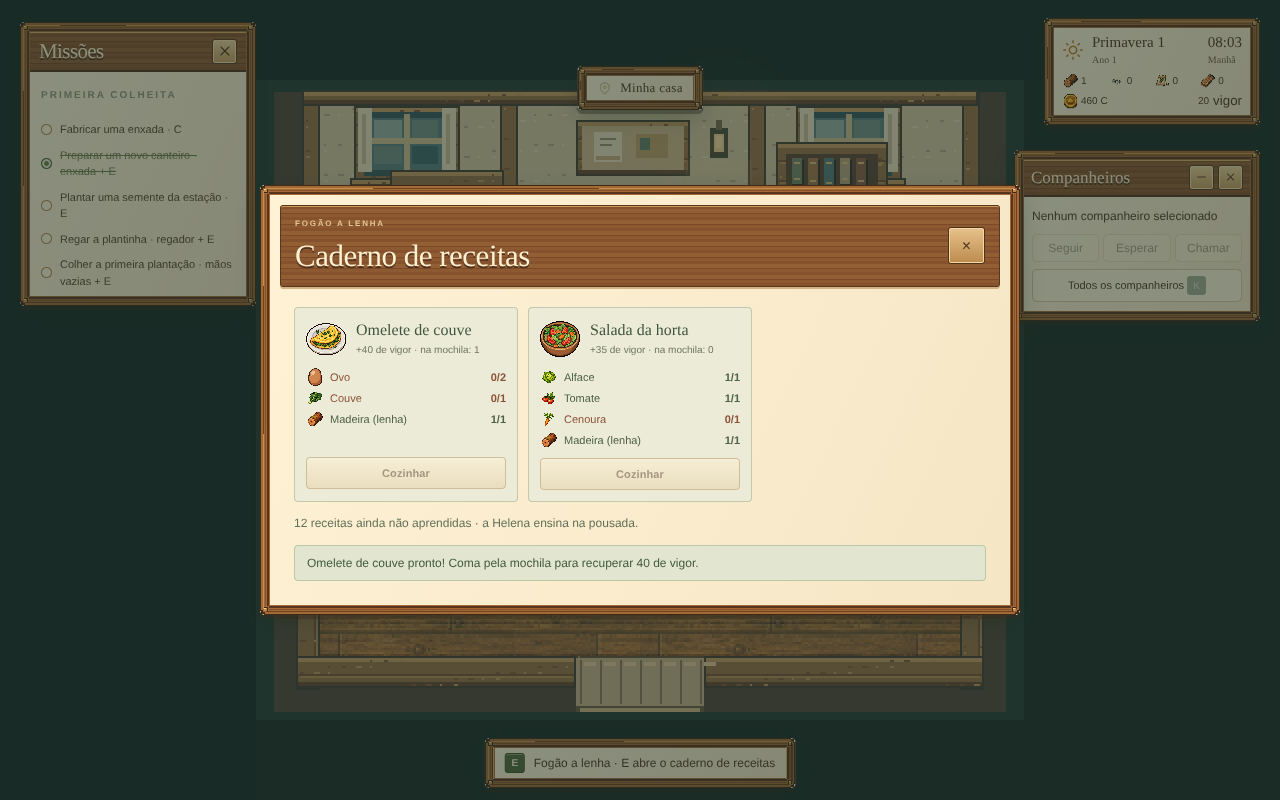
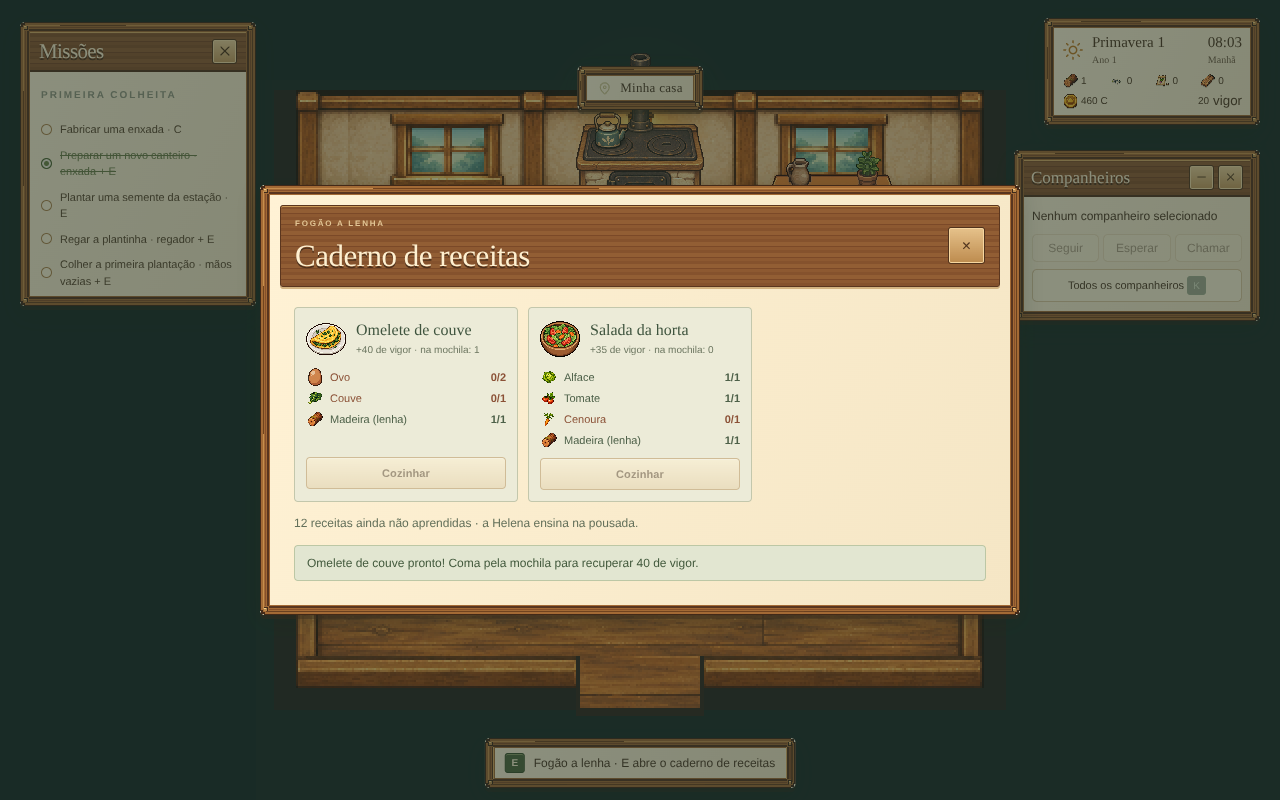
Reorganiza a casa: cama e estante centradas nas janelas, fogão no centro da parede
Pedidos do Junior: fogão centralizado e colado na parede (2x1, desenhado
no rodapé), cama centrada sob a janela esquerda e subida até a parede,
estante baixa nova (SpriteCook) centrada sob a janela direita, mesa com
duas cadeiras, e regador e sementes lado a lado no canto inferior
direito. As janelas foram deslocadas na arte para ficarem sobre a grade.
Casas na arrumação inicial antiga recebem a nova se o save continuar
válido; casas reorganizadas não mudam.

Claude-Session: https://claude.ai/code/session_01VpVxgMQDGaCXuwQcLEJaM9

Changed region(s): [[0.2188, 0.0938, 0.7812, 0.25], [0.2188, 0.75, 0.7812, 0.9062]]

diff --git a/tests/home-layout-migration.test.ts b/tests/home-layout-migration.test.ts
@@ -1,39 +1,64 @@
 import { describe, it, expect } from 'vitest';
 import { createCharacterProfile } from '../src/data/characters';
-import { createDefaultHome } from '../src/systems/home';
+import { createDefaultHome, legacyDefaultHome, untouchedLegacyLayout, validateHome, Home } from '../src/systems/home';
 import { createNewSave, migrateSave, validateSave } from '../src/systems/save';
 
-function oldRoom() {
+/** Save com a casa na arrumação inicial publicada até a preview.34. */
+function oldRoom(variant: 'p34' | 'stove' | 'codex' = 'p34') {
   const save = createNewSave(createCharacterProfile('Casa'));
-  save.home = createDefaultHome();
-  Object.assign(save.home.furniture.find(p => p.kind === 'shelf')!, { x: 8, y: 2 });
+  save.home = legacyDefaultHome();
+  if (variant !== 'p34') save.home.furniture.push({ id: 'home-woodStove-7', kind: 'woodStove', x: 4, y: 2 });
+  if (variant === 'codex') Object.assign(save.home.furniture.find(p => p.kind === 'shelf')!, { x: 9, y: 7 });
   return save;
 }
 
-describe('estante fora da janela', () => {
-  it('atualiza a posição antiga sem modificar a entrada, peças ou save original', () => {
-    const old = oldRoom(), before = structuredClone(old);
-    const updated = migrateSave(old)!;
+describe('arrumação inicial da casa', () => {
+  it('a nova arrumação é válida: cama sob a janela, estante baixa, fogão na parede e mesa com duas cadeiras', () => {
+    const h = createDefaultHome();
+    expect(validateHome(h)).toBe(true);
+    expect(h.furniture.find(p => p.kind === 'woodStove')).toMatchObject({ x: 5, y: 2 });
+    expect(h.furniture.filter(p => p.kind === 'chair')).toHaveLength(2);
+    // O fogão ocupa só a fileira encostada na parede.
+    expect(new Home(h).isBlocked(5, 3)).toBe(false);
+    expect(new Home(h).isBlocked(5, 2)).toBe(true);
+  });
+  it('reconhece só a arrumação antiga intocada, com ou sem os ajustes da preview.35', () => {
+    expect(untouchedLegacyLayout(legacyDefaultHome())).toBe(true);
+    expect(untouchedLegacyLayout(oldRoom('stove').home!)).toBe(true);
+    expect(untouchedLegacyLayout(oldRoom('codex').home!)).toBe(true);
+    expect(untouchedLegacyLayout(createDefaultHome())).toBe(false);
+    const moved = legacyDefaultHome(); moved.furniture[5].x = 3;
+    expect(untouchedLegacyLayout(moved)).toBe(false);
+  });
+});
+
+describe('casas salvas antes da nova arrumação', () => {
+  for (const variant of ['p34', 'stove', 'codex'] as const) it(`casa intocada (${variant}) recebe a arrumação nova, mantendo piso e paredes`, () => {
+    const old = oldRoom(variant); old.home!.floor = 'dark'; old.home!.wall = 'sage';
+    const before = structuredClone(old), updated = migrateSave(old)!;
     expect(validateSave(updated)).toBe(true);
-    expect(updated.home!.furniture.find(p => p.kind === 'shelf')).toMatchObject({x:9,y:7});
-    expect(updated.home!.furniture.filter(p => p.kind !== 'shelf')).toEqual(old.home!.furniture.filter(p => p.kind !== 'shelf'));
+    expect(updated.home).toEqual({ ...createDefaultHome(), floor: 'dark', wall: 'sage' });
     expect(old).toEqual(before);
     expect(migrateSave(updated)).toEqual(updated);
   });
-  it('preserva uma estante já reorganizada pelo jogador', () => {
+  it('preserva uma casa já reorganizada pelo jogador (só ganha o fogão)', () => {
     const old = oldRoom(); Object.assign(old.home!.furniture.find(p => p.kind === 'shelf')!, { x: 1, y: 7 });
-    expect(migrateSave(old)!.home).toEqual(old.home);
+    const updated = migrateSave(old)!;
+    expect(updated.home!.furniture.filter(p => p.kind !== 'woodStove')).toEqual(old.home!.furniture);
+    expect(updated.home!.furniture.filter(p => p.kind === 'woodStove')).toHaveLength(1);
   });
-  it('não coloca a estante em cima de quem salvou dentro da casa', () => {
-    const old = oldRoom(); old.homePosition = {x:9.5*32,y:7.5*32,direction:'up'};
+  it('quem salvou dentro de casa no lugar de um móvel novo continua onde estava', () => {
+    // Em (10,4) fica a segunda cadeira da nova arrumação; na antiga, é piso livre.
+    const old = oldRoom(); old.homePosition = { x: 10.5 * 32, y: 4.5 * 32, direction: 'up' };
     expect(validateSave(old)).toBe(true);
     const updated = migrateSave(old)!;
     expect(validateSave(updated)).toBe(true);
     expect(updated.homePosition).toEqual(old.homePosition);
-    expect(updated.home!.furniture.find(p => p.kind === 'shelf')).toMatchObject({x:8,y:6});
+    expect(new Home(updated.home!).isBlocked(10, 4)).toBe(false);
+    expect(updated.home!.furniture.filter(p => p.kind === 'woodStove')).toHaveLength(1);
   });
-  it('recupera a casa implícita antiga se o jogador estiver no novo lugar da estante', () => {
-    const old = oldRoom(); delete old.home; old.homePosition = {x:9.5*32,y:7.5*32,direction:'up'};
+  it('save sem casa explícita, com o jogador dentro, continua carregando', () => {
+    const old = oldRoom(); delete old.home; old.homePosition = { x: 10.5 * 32, y: 4.5 * 32, direction: 'up' };
     const updated = migrateSave(old)!;
     expect(updated).not.toBeNull(); expect(validateSave(updated)).toBe(true);
     expect(updated.homePosition).toEqual(old.homePosition);

diff --git a/src/systems/save.ts b/src/systems/save.ts
@@ -42,7 +42,7 @@ import { EMPTY_INVENTORY, INITIAL_INVENTORY, ITEM_IDS, MAX_ITEM_COUNT } from './
 import { RESOURCE_DEFINITIONS } from './resources';
 import { buildingFootprint, buildingLayer } from './building';
 import { TILE, WORLD_HEIGHT, WORLD_WIDTH } from '../data/regions';
-import { Home, HOME_WIDTH, HOME_HEIGHT, validateHome, createDefaultHome, type HomeData } from './home';
+import { Home, HOME_WIDTH, HOME_HEIGHT, validateHome, createDefaultHome, legacyDefaultHome, untouchedLegacyLayout, type HomeData } from './home';
 import { validateMapEdits } from './map-editor';
 import { isCharacterId } from '../data/characters';
 import {createVillageEconomy,validateVillageEconomy} from '../data/village-commerce';
@@ -343,20 +343,16 @@ export function migrateSave(value: unknown): SaveData | null {
   // Sem `home`, o save usa a casa padrão, que agora tem o fogão. Se o jogador salvou dentro
   // de casa no lugar do fogão, a casa antiga (sem fogão) passa a ser explícita.
   if(isRecord(value)&&value.version===SAVE_VERSION&&value.home===undefined&&value.homePosition!==undefined&&!validateSave(value)){
-    const legacy=createDefaultHome();legacy.furniture=legacy.furniture.filter(p=>p.kind!=='woodStove').map(p=>p.id==='home-shelf-2'?{...p,x:8,y:2}:p);
+    const legacy=legacyDefaultHome();
     if(validateSave({...value,home:legacy}))value={...value,home:legacy};
   }
-  // A estante padrão antiga cobria a janela. Só move essa posição antiga;
-  // casas reorganizadas mantêm suas peças. Testa o save inteiro para preservar
-  // o espaço do jogador e visitantes, sem recolher móveis ou perder conteúdo.
-  if (isRecord(value) && value.version === SAVE_VERSION && validateHome(value.home) && validateSave(value)) {
-    const home = value.home as HomeData;
-    const shelf = home.furniture.find(p => p.id === 'home-shelf-2' && p.kind === 'shelf' && p.x === 8 && p.y === 2);
-    if (shelf) for (const [x, y] of [[9, 7], [8, 6], [1, 7]]) {
-      const next = { ...home, furniture: home.furniture.map(p => p === shelf ? { ...p, x, y } : p) };
-      if (validateHome(next) && validateSave({ ...value, home: next })) { value = { ...value, home: next }; break; }
-    }
+  // Casa ainda na arrumação inicial antiga: recebe a arrumação nova inteira, mantendo piso
+  // e paredes. Se não couber (alguém parado no lugar de um móvel), seguem as regras abaixo.
+  if (isRecord(value) && value.version === SAVE_VERSION && validateHome(value.home) && untouchedLegacyLayout(value.home as HomeData)) {
+    const old = value.home as HomeData, next = { ...createDefaultHome(), floor: old.floor, wall: old.wall };
+    if (validateSave({ ...value, home: next })) value = { ...value, home: next };
   }
+  // A estante agora é baixa e cabe sob a janela: a regra que a tirava de (8,2) saiu.
   // Cozinha (preview.35): casas salvas antes recebem o fogão a lenha num lugar livre.
   // Cada lugar é testado com o save inteiro, para não cair sobre o jogador dentro de casa.
   if(isRecord(value)&&value.version===SAVE_VERSION&&value.home!==undefined&&validateHome(value.home)&&!(value.home as HomeData).furniture.some(p=>p.kind==='woodStove')&&validateSave(value)){

diff --git a/src/systems/home.ts b/src/systems/home.ts
@@ -56,23 +56,54 @@ export const FURNITURE_CATALOG: Record<FurnitureKind, {
   toolRack:{name:'Painel de ferramentas',width:3,height:2,blocking:false,limit:3,surface:'wall'},
   tongs:{name:'Tenaz de bancada',width:1,height:1,blocking:false,limit:6,surface:'tabletop'},
   /** Fogão a lenha da cozinha: já vem na casa; E abre o caderno de receitas. */
-  woodStove:{name:'Fogão a lenha',width:2,height:2,blocking:true,limit:1},
+  woodStove:{name:'Fogão a lenha',width:2,height:1,blocking:true,limit:1},
 };
 export const FURNITURE_KINDS = Object.keys(FURNITURE_CATALOG) as FurnitureKind[];
 
+/** Arrumação inicial: cama centrada sob a janela esquerda, fogão centrado na parede do
+ * fundo, estante baixa centrada sob a janela direita, mesa com duas cadeiras à direita e
+ * tapete na sala, à esquerda da entrada. */
 export function createDefaultHome(): HomeData {
   return {
     floor: 'oak', wall: 'cream',
     furniture: [
       { id: 'home-bed-1', kind: 'bed', x: 2, y: 2 },
-      { id: 'home-shelf-2', kind: 'shelf', x: 9, y: 7 },
+      { id: 'home-shelf-2', kind: 'shelf', x: 8, y: 2 },
+      { id: 'home-table-3', kind: 'table', x: 8, y: 4 },
+      { id: 'home-chair-4', kind: 'chair', x: 7, y: 4 },
+      { id: 'home-rug-5', kind: 'rug', x: 2, y: 5 },
+      { id: 'home-plant-6', kind: 'plant', x: 1, y: 7 },
+      { id: 'home-woodStove-7', kind: 'woodStove', x: 5, y: 2 },
+      { id: 'home-chair-8', kind: 'chair', x: 10, y: 4 },
+    ],
+  };
+}
+
+/** Arrumação inicial publicada até a preview.34, antes da cozinha. */
+export function legacyDefaultHome(): HomeData {
+  return {
+    floor: 'oak', wall: 'cream',
+    furniture: [
+      { id: 'home-bed-1', kind: 'bed', x: 2, y: 2 },
+      { id: 'home-shelf-2', kind: 'shelf', x: 8, y: 2 },
       { id: 'home-table-3', kind: 'table', x: 7, y: 4 },
       { id: 'home-chair-4', kind: 'chair', x: 6, y: 4 },
       { id: 'home-rug-5', kind: 'rug', x: 4, y: 5 },
       { id: 'home-plant-6', kind: 'plant', x: 2, y: 6 },
-      { id: 'home-woodStove-7', kind: 'woodStove', x: 4, y: 2 },
     ],
   };
+}
+
+/** A casa ainda está na arrumação inicial antiga (preview.34), talvez com os ajustes
+ * automáticos da preview.35 em desenvolvimento: fogão em (4,2) e estante em (9,7).
+ * O piso e as paredes escolhidos pelo jogador não contam. */
+export function untouchedLegacyLayout(home: HomeData): boolean {
+  const key = (p: HomeFurniture) => `${p.id}@${p.x},${p.y}`;
+  const own = home.furniture.filter(p => !(p.id === 'home-woodStove-7' && p.x === 4 && p.y === 2)).map(key).sort();
+  return [{ x: 8, y: 2 }, { x: 9, y: 7 }].some(shelf => {
+    const legacy = legacyDefaultHome().furniture.map(p => p.kind === 'shelf' ? { ...p, ...shelf } : p).map(key).sort();
+    return legacy.length === own.length && legacy.every((k, i) => k === own[i]);
+  });
 }
 
 export function furnitureFootprint(piece: Pick<HomeFurniture, 'kind' | 'x' | 'y'>): TilePoint[] {

diff --git a/tests/home.test.ts b/tests/home.test.ts
@@ -1,5 +1,5 @@
 import { describe, expect, it } from 'vitest';
-import { createDefaultHome, furnitureFootprint, Home, HOME_EXIT, HOME_HEIGHT, HOME_WIDTH, validateHome } from '../src/systems/home';
+import { createDefaultHome, legacyDefaultHome, furnitureFootprint, Home, HOME_EXIT, HOME_HEIGHT, HOME_WIDTH, validateHome } from '../src/systems/home';
 import type { FloorStyle, HomeData, HomeFurniture } from '../src/systems/home';
 
 describe('interior da casa inicial', () => {
@@ -19,7 +19,7 @@ describe('interior da casa inicial', () => {
   });
 
   it('usa o footprint inteiro da cama e permite um tapete debaixo de móveis', () => {
-    const home = new Home();
+    const home = new Home(legacyDefaultHome());
     expect(furnitureFootprint(home.data.furniture[0])).toEqual([
       { x: 2, y: 2 }, { x: 3, y: 2 }, { x: 2, y: 3 }, { x: 3, y: 3 },
     ]);
@@ -31,7 +31,7 @@ describe('interior da casa inicial', () => {
   });
 
   it('rejeita sobreposição, móveis fora do cômodo e bloqueio do corredor da porta sem mutação parcial', () => {
-    const home = new Home();
+    const home = new Home(legacyDefaultHome());
     const original = structuredClone(home.data);
     expect(home.place('shelf', 3, 2).ok).toBe(false);
     expect(home.place('shelf', 10, 4).ok).toBe(false);
@@ -43,7 +43,7 @@ describe('interior da casa inicial', () => {
   });
 
   it('não permite colocar ou mover um móvel no personagem', () => {
-    const home = new Home();
+    const home = new Home(legacyDefaultHome());
     const before = structuredClone(home.data);
     expect(home.place('plant', 5, 7, { x: 5.4, y: 7.2 }).ok).toBe(false);
     expect(home.move('home-plant-6', 5, 7, { x: 5, y: 7 }).ok).toBe(false);
@@ -52,7 +52,7 @@ describe('interior da casa inicial', () => {
   });
 
   it('mantém uma cama e aceita reposicioná-la com acesso pela entrada', () => {
-    const home = new Home();
+    const home = new Home(legacyDefaultHome());
     expect(home.remove('home-bed-1').ok).toBe(false);
     expect(home.move('home-bed-1', 3, 6).ok).toBe(true);
     expect(home.bedNear({ x: 2, y: 7 })?.id).toBe('home-bed-1');
@@ -83,7 +83,7 @@ describe('interior da casa inicial', () => {
   });
 
   it('limita o acervo, mantém ids únicos e não aceita campos malformados em saves', () => {
-    const home = new Home();
+    const home = new Home(legacyDefaultHome());
     expect(home.place('table', 3, 6).ok).toBe(true);
     const before = structuredClone(home.data);
     expect(home.place('table', 1, 5).ok).toBe(false);
@@ -100,7 +100,7 @@ describe('interior da casa inicial', () => {
   });
 
   it('aplica ações e acabamentos sem alterar o inventário ou cobrar materiais', () => {
-    const home = new Home();
+    const home = new Home(legacyDefaultHome());
     expect(home.apply({ type: 'style', floor: 'stone', wall: 'sage' }).ok).toBe(true);
     expect(home.data.floor).toBe('stone');
     expect(home.data.wall).toBe('sage');

diff --git a/tests/kitchen.test.ts b/tests/kitchen.test.ts
@@ -73,8 +73,8 @@ describe('cozinha: fogão a lenha',()=>{
 describe('cozinha: o fogão na casa',()=>{
  it('a casa nova já vem com o fogão encostado na parede do fundo',()=>{
   const h=createDefaultHome();expect(validateHome(h)).toBe(true);
-  expect(h.furniture.find(p=>p.kind==='woodStove')).toMatchObject({x:4,y:2});
-  expect(new Home(h).furnitureNear('woodStove',{x:5,y:4},1.1)).toBeDefined();
+  expect(h.furniture.find(p=>p.kind==='woodStove')).toMatchObject({x:5,y:2});
+  expect(new Home(h).furnitureNear('woodStove',{x:6,y:3},1.1)).toBeDefined();
  });
  it('saves antigos recebem o fogão num lugar livre, sem perder nada',()=>{
   const old:any=fresh(),home=createDefaultHome();home.furniture=home.furniture.filter(p=>p.kind!=='woodStove');old.home=home;
@@ -84,14 +84,14 @@ describe('cozinha: o fogão na casa',()=>{
  });
  it('com o jogador dentro de casa, o fogão não cai em cima dele',()=>{
   const old:any=fresh(),home=createDefaultHome();home.furniture=home.furniture.filter(p=>p.kind!=='woodStove');old.home=home;
-  old.homePosition={x:4.5*32,y:3*32};expect(validateSave(old)).toBe(true);
+  old.homePosition={x:5.5*32,y:2.7*32};expect(validateSave(old)).toBe(true);
   const m=migrateSave(old)!;expect(m).not.toBeNull();const stove=m.home!.furniture.find(p=>p.kind==='woodStove')!;
-  expect(stove).toBeDefined();expect(new Home(m.home!).isBlocked(4,3)).toBe(false);
+  expect(stove).toBeDefined();expect(new Home(m.home!).isBlocked(5,2)).toBe(false);
  });
  it('save sem casa própria, salvo no lugar do novo fogão, continua carregando',()=>{
-  const old:any=fresh();delete old.home;old.homePosition={x:4.5*32,y:3*32};
+  const old:any=fresh();delete old.home;old.homePosition={x:5.5*32,y:2.6*32};
   const m=migrateSave(old)!;expect(m).not.toBeNull();
-  expect(new Home(m.home!).isBlocked(4,3)).toBe(false);expect(m.home!.furniture.filter(p=>p.kind==='woodStove')).toHaveLength(1);
+  expect(new Home(m.home!).isBlocked(5,2)).toBe(false);expect(m.home!.furniture.filter(p=>p.kind==='woodStove')).toHaveLength(1);
  });
  it('uma casa sem lugar para o fogão continua como está',()=>{
   const h=createDefaultHome();h.furniture=h.furniture.filter(p=>p.kind!=='woodStove');

diff --git a/src/home-room-art.ts b/src/home-room-art.ts
@@ -33,6 +33,11 @@ export function paintHomeRoom(ctx: Paint, source: CanvasImageSource, floor: Floo
       part(x, y, w, h, 20 + (x - 86) * 344 / 1205, 5 + (y - 30) * 59 / 275, w * 344 / 1205, h * 59 / 275);
     }
   }
+  // Janelas centradas sobre a grade do piso (x=96 e x=288): a cama em x=2 e a estante
+  // em x=8 ficam no meio delas. Cada painel de reboco entre as vigas é deslocado 13 px
+  // para dentro; a faixa que sobra repete o reboco liso que já estava naquela borda.
+  shiftWallPanel(ctx, 33, 131, 13);
+  shiftWallPanel(ctx, 251, 351, -13);
   part(86, 305, 22, 775, 20, 64, 12, 224);
   part(1268, 305, 23, 775, 352, 64, 12, 224);
   // Soleira aberta: continua o piso, sem desenhar uma parede sobre a saída.
@@ -41,4 +46,15 @@ export function paintHomeRoom(ctx: Paint, source: CanvasImageSource, floor: Floo
   part(86, 1080, 514, 36, 20, 288, 140, 16);
   part(773, 1080, 518, 36, 224, 288, 140, 16);
   ctx.fillStyle = '#34291f24'; ctx.fillRect(32, 64, 320, 3);
+}
+
+/** Desloca na horizontal o painel de parede [x0,x1) (faixa y=5..64). A faixa descoberta
+ * mantém os pixels originais daquela borda, que são reboco liso. */
+export function shiftWallPanel(ctx: Paint, x0: number, x1: number, dx: number): void {
+  const w = x1 - x0, h = 59, src = ctx.getImageData(x0, 5, w, h), out = ctx.createImageData(w, h);
+  for (let y = 0; y < h; y++) for (let x = 0; x < w; x++) {
+    const keep = dx > 0 ? x < dx : x >= w + dx, sx = keep ? x : x - dx, i = (y * w + x) * 4, j = (y * w + sx) * 4;
+    out.data.set(src.data.subarray(j, j + 4), i);
+  }
+  ctx.putImageData(out, x0, 5);
 }

diff --git a/tests/mine-rescue.test.ts b/tests/mine-rescue.test.ts
@@ -27,7 +27,7 @@ describe('phase 9 persistent Bento rescue',()=>{
   expect(acknowledgeMineRescue(loaded,()=>false)).toBe(false);expect(loaded).toEqual(pending);expect(acknowledgeMineRescue(loaded,validateSave)).toBe(true);expect(loaded.mineRescue!.stage).toBe('leaving');const ack=structuredClone(loaded);expect(acknowledgeMineRescue(loaded,()=>true)).toBe(false);expect(loaded).toEqual(ack);
  });
  it('uses the moved owned bed and puts both bodies on reachable, non-overlapping floor with a walkable door route',()=>{
-  const s=fallen(),home=new Home(s.home),bed=home.data.furniture.find(f=>f.kind==='bed')!;expect(home.apply({type:'move',id:bed.id,x:6,y:2},{x:5,y:8}).ok).toBe(true);s.home=home.data;
+  const s=fallen(),home=new Home(s.home),bed=home.data.furniture.find(f=>f.kind==='bed')!;expect(home.apply({type:'move',id:bed.id,x:5,y:5},{x:5,y:8}).ok).toBe(true);s.home=home.data;
   expect(recoverMineDefeat(s,validateSave)).toBe(true);expect(s.mineRescue!.bedId).toBe(bed.id);expect(home.bedNear({x:s.homePosition!.x/32,y:s.homePosition!.y/32},2)).toBeDefined();const b=s.bentoTravel!.trip!;expect(bentoMapNavigation(s,'home').fits(b)).toBe(true);expect(Math.hypot(b.x-s.homePosition!.x,b.y-s.homePosition!.y)).toBeGreaterThanOrEqual(30);
   const goal={x:HOME_INTERIOR_DOORWAY.x,y:HOME_INTERIOR_DOORWAY.y+8},route=bentoRoute(s,'home',b,goal);expect(route.length).toBeGreaterThan(0);let from=b;for(const point of route){expect(bentoSegment(bentoMapNavigation(s,'home'),from,point)).toBe(true);from={...b,...point};}expect(rescueHomePlacement(home)).toBeDefined();
  });

diff --git a/src/home-art.ts b/src/home-art.ts
@@ -273,12 +273,15 @@ export interface HomeView {
 /** Móveis com arte em PNG, carregada em `preloadVisualAssets`, na resolução original:
  * só a exibição é reduzida para a largura do móvel. */
 export const FURNITURE_IMAGES: Partial<Record<FurnitureKind, { file: string; maxHeight?: number; offsetY?: number }>> = {
-  bed: { file: 'assets/visual/home-furniture/bed.png', maxHeight: 76 },
+  // Cabeceira encostada no rodapé, como o fogão.
+  bed: { file: 'assets/visual/home-furniture/bed.png', maxHeight: 76, offsetY: -14 },
   table: { file: 'assets/visual/home-furniture/table.png', maxHeight: 66 },
   chair: { file: 'assets/visual/home-furniture/chair.png', maxHeight: 42 },
-  shelf: { file: 'assets/visual/home-furniture/shelf.png', maxHeight: 56 },
+  shelf: { file: 'assets/visual/home-furniture/spritecook/shelf.png', maxHeight: 62 },
   rug: { file: 'assets/visual/home-furniture/rug.png', maxHeight: 64 },
   plant: { file: 'assets/visual/home-furniture/plant.png', maxHeight: 48 },
+  // Uma fileira de profundidade, subido até o rodapé: o fogão fica encostado na parede,
+  // com a chaminé subindo por ela.
   woodStove: { file: 'assets/visual/home-furniture/wood-stove.png', maxHeight: 100, offsetY: -12 },
 };
 export function preloadFurnitureImages(scene:Phaser.Scene):void{

diff --git a/src/systems/home-supplies.ts b/src/systems/home-supplies.ts
@@ -1,8 +1,9 @@
 import type { SaveData } from '../types';
 import type { Inventory } from './inventory';
 export const HOME_SUPPLIES = [
-  { id: 'wateringCan' as const, x: 4, y: 7, texture: 'icon-water-empty', label: 'Recolher regador' },
-  { id: 'seedPacket' as const, x: 7, y: 7, texture: 'home-seed-packet', label: 'Recolher pacote de 7 sementes' },
+  // Lado a lado no canto inferior direito, livre na arrumação inicial.
+  { id: 'wateringCan' as const, x: 8, y: 7, texture: 'icon-water-empty', label: 'Recolher regador' },
+  { id: 'seedPacket' as const, x: 9, y: 7, texture: 'home-seed-packet', label: 'Recolher pacote de 7 sementes' },
 ];
 export function collectHomeSupply(state: SaveData, inventory: Inventory, id: 'wateringCan' | 'seedPacket'): boolean {
   if (state.homeSupplies?.[id]) return false;

diff --git a/src/systems/kitchen.ts b/src/systems/kitchen.ts
@@ -44,7 +44,7 @@ export function learnNextDish(s:SaveData,payCoins:(coins:number)=>void):DishReci
 export function withWoodStove(home:HomeData,accept:(next:HomeData)=>boolean=()=>true):HomeData{
  if(home.furniture.some(p=>p.kind==='woodStove'))return home;
  const ids=home.furniture.map(p=>Number(p.id.split('-').at(-1))).filter(Number.isFinite),id=`home-woodStove-${Math.max(0,...ids)+1}`;
- const spots=[{x:4,y:2}];for(let y=2;y<HOME_HEIGHT-2;y++)for(let x=1;x<HOME_WIDTH-2;x++)spots.push({x,y});
+ const spots=[{x:5,y:2}];for(let y=2;y<HOME_HEIGHT-2;y++)for(let x=1;x<HOME_WIDTH-2;x++)spots.push({x,y});
  for(const p of spots){const next={...home,furniture:[...home.furniture,{id,kind:'woodStove' as const,x:p.x,y:p.y}]};if(validateHome(next)&&accept(next))return next;}
  return home;
 }

diff --git a/docs/PASSAGEM.md b/docs/PASSAGEM.md
@@ -3,12 +3,36 @@
 <!-- Reescreva este arquivo inteiro ao fim de cada rodada, mantendo as seções. -->
 
 - **Atualizado em:** 2026-11-14
-- **Por:** Codex
-- **Continuar a partir de:** branch `release/v0.10.0-preview.35`, HEAD. Casa refeita em `09d6954` e `c037244`, sobre a cozinha do Claude.
+- **Por:** Claude Code
+- **Continuar a partir de:** branch `release/v0.10.0-preview.35`, HEAD. Nova arrumação da casa sobre a casa rústica do Codex.
 - **Última versão publicada:** `v0.10.0-preview.34`, https://github.com/juniorangel2000-commits/Junior/releases/tag/v0.10.0-preview.34
 - **Estado:** casa do jogador com móveis, fogão, paredes e piso no mesmo conjunto rústico. Cozinha, máquinas, patos e distanciamento permanecem integrados. Nada publicado; `main`, tags e versão do pacote continuam na preview.34.
 
 ## Feito nesta rodada
+
+### Nova arrumação da casa (Claude Code, pedidos do Junior)
+
+- Arrumação inicial (`createDefaultHome`):
+  - cama centrada sob a janela esquerda (2,2);
+  - fogão centrado na parede do fundo (5,2);
+  - **estante baixa nova** centrada sob a janela direita (8,2);
+  - mesa (8,4) com **duas cadeiras** (7,4) e (10,4);
+  - tapete (2,5) e vaso (1,7);
+  - regador e sementes lado a lado no canto inferior direito, em (8,7) e (9,7) (`HOME_SUPPLIES`).
+- **Fogão:** passou a ocupar 2×1 (só a fileira encostada na parede) e é desenhado 12 px acima, com o corpo no rodapé e a chaminé subindo pela parede. A **cama** também subiu 14 px, com a cabeceira no rodapé. A colisão não mudou.
+- **Janelas:** foram deslocadas 13 px para dentro na arte da parede (`shiftWallPanel` em `src/home-room-art.ts`), para ficarem centradas sobre a grade (x=96 e x=288). Vale para os três rebocos e os três pisos.
+- **Estante baixa:** gerada no SpriteCook com a casa rústica como guia de estilo, em `public/assets/visual/home-furniture/spritecook/shelf.png`, na resolução original. A estante do Codex (`shelf.png`) continua no repositório, sem uso. Restam cerca de 196 créditos no SpriteCook.
+- **Migração** (`src/systems/save.ts`):
+  - Casas ainda na arrumação inicial antiga (`legacyDefaultHome`, da preview.34) recebem a arrumação nova inteira, mantendo piso e paredes, se o save inteiro continuar válido. Isso inclui as variações da preview.35: com o fogão em (4,2) ou a estante em (9,7). Ver `untouchedLegacyLayout`.
+  - Se alguém estiver parado no lugar de um móvel novo, a casa fica como estava e só ganha o fogão num lugar livre.
+  - A regra do Codex que tirava a estante de (8,2) saiu: a estante agora é baixa e cabe sob a janela.
+  - Casas reorganizadas pelo editor não mudam.
+- **Testes:**
+  - `tests/home-layout-migration.test.ts` foi reescrito para a regra nova.
+  - Os testes do editor (`tests/home.test.ts`) usam a casa antiga explícita (`legacyDefaultHome`), porque testam o editor e não a arrumação.
+  - `tests/mine-rescue.test.ts` move a cama para (5,5), porque (6,2) agora é o fogão.
+- Captura: `docs/planejamento/qa-moveis/casa-arrumacao-nova.png`.
+
 
 ### Casa do jogador — conjunto rústico (Codex)
 
@@ -155,10 +179,10 @@
 ## Testes
 
 - `npm run check`: ok.
-- `npm test`: **2.031 passaram, zero falhas, 230 arquivos**. Inclui os quatro novos testes da mudança de disposição em saves antigos. Base anterior desta rodada: 2.027 passaram.
-- `npm run build`: ok nesta rodada, com aviso anterior de tamanho do pacote.
-- Chromium, nesta rodada:
-  - `scripts/qa-home-furniture.cjs`: OK; evidências em `docs/planejamento/qa-moveis/`.
-  - `scripts/qa-kitchen.cjs`: OK. O fogão aparece com 64 px de largura, a dica "Fogão a lenha · E abre o caderno de receitas" aparece, o caderno mostra 2 receitas aprendidas pela Helena, a salada fica desabilitada sem cenoura, a omelete é cozida, o save guarda o prato e comer leva o vigor de 20 a 60. Capturas em `docs/planejamento/qa-cozinha/`.
-  - `scripts/qa-forest-ducks.cjs` e `scripts/qa-fields-distance.cjs`: OK.
+- `npm test`: **2.035 passaram, zero falhas, 230 arquivos**.
+- `npm run build`: não repetido depois da nova arrumação (ok na rodada do Codex).
+- Chromium:
+  - `scripts/qa-kitchen.cjs`: OK com o fogão novo (2×1). O script agora para o jogador logo abaixo do fogão.
+  - Casa nova conferida: cama, fogão, estante, os três acabamentos, a dica "Dormir" perto da cama, e regador e sementes recolhidos com E. Sem erros de JavaScript.
+- Antes: `scripts/qa-home-furniture.cjs` (Codex), `scripts/qa-forest-ducks.cjs` e `scripts/qa-fields-distance.cjs` passaram.
 - Para os QAs: `npx vite --host 127.0.0.1 --port 5190 --strictPort`.
